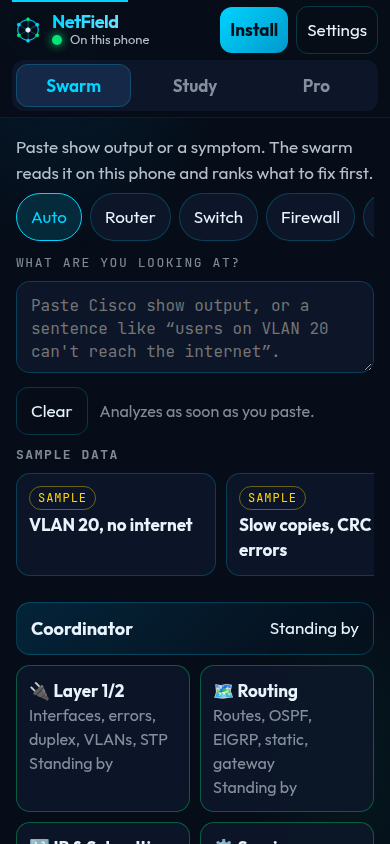
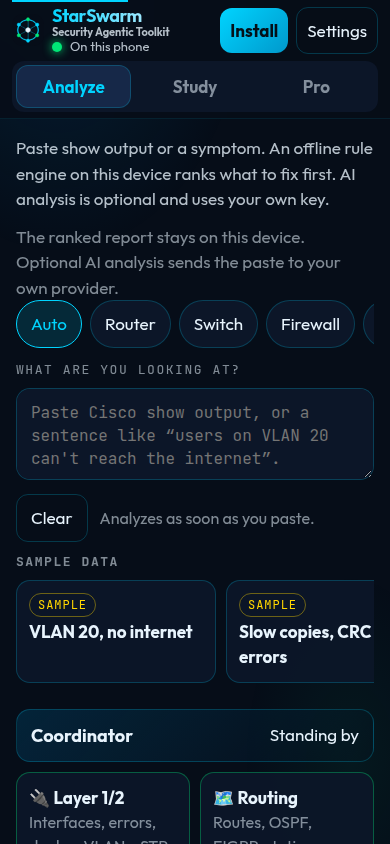
Rename the app to StarSwarm Security Agentic Toolkit.
The free check stays an on-device rule engine. The manifest id and the saved-key storage name stay so an existing install updates in place.

diff --git a/tests/run.js b/tests/run.js
@@ -75,7 +75,7 @@ for (const sample of SAMPLES) {
   const again = runSwarm(sample.text, { deviceType: sample.deviceType });
   assert(JSON.stringify(result) === JSON.stringify(again), `${sample.id} is deterministic`);
   evidenceStaysInsideInput(result, sample.text);
-  assert(result.summary.script.startsWith('! NetField Pocket Swarm'), `${sample.id} script header`);
+  assert(result.summary.script.startsWith('! StarSwarm Security Agentic Toolkit'), `${sample.id} script header`);
   assert(result.summary.confidence >= 80, `${sample.id} confidence ${result.summary.confidence} (${ids(result)})`);
   assert(result.summary.confidenceLabel === 'High', `${sample.id} label`);
 }
@@ -344,7 +344,10 @@ for (const font of ['fonts/outfit-latin.woff2', 'fonts/jetbrains-mono-latin.woff
   assert(bytes.slice(0, 4).toString() === 'wOF2', `${font} is woff2`);
 }
 
-assert(manifest.id === './', 'manifest has an id');
+assert(manifest.name === 'StarSwarm Security Agentic Toolkit', 'manifest name');
+assert(manifest.short_name === 'StarSwarm', 'manifest short name');
+assert(manifest.short_name.length <= 12, 'short name fits a home screen label');
+assert(manifest.id === './', 'manifest id stays so an existing install updates in place');
 assert(manifest.categories.includes('utilities') && manifest.categories.includes('productivity'), 'manifest categories');
 const narrowShot = manifest.screenshots.find((shot) => shot.form_factor === 'narrow');
 const wideShot = manifest.screenshots.find((shot) => shot.form_factor === 'wide');
@@ -354,11 +357,28 @@ for (const shot of [narrowShot, wideShot]) {
   assert(bytes.readUInt32BE(16) + 'x' + bytes.readUInt32BE(20) === shot.sizes, `${shot.src} matches ${shot.sizes}`);
 }
 
-assert(worker.includes("const CACHE = 'netfield-pocket-swarm-v3'"), 'service worker cache was bumped');
+assert(worker.includes("const CACHE = 'starswarm-toolkit-v3'"), 'service worker cache was bumped');
 const og = fs.readFileSync(new URL('../screenshots/og.png', import.meta.url));
 assert(og.readUInt32BE(16) === 1200 && og.readUInt32BE(20) === 630, 'share image is 1200x630');
 assert(worker.includes('fonts/outfit-latin.woff2') && worker.includes('fonts/jetbrains-mono-latin.woff2'), 'service worker precaches the fonts');
-assert(!worker.includes('netfield-pocket-swarm-v1'), 'old cache name is gone');
+assert(!worker.includes('netfield-pocket-swarm'), 'old cache name is gone');
+assert(deepJs.includes("const STORAGE_KEY = 'netfield.byok.v1'"), 'saved keys keep the existing storage key');
+const readme = fs.readFileSync(new URL('../README.md', import.meta.url), 'utf8');
+assert(readme.includes('StarSwarm Security Agentic Toolkit'), 'readme uses the new name');
+assert(readme.includes('https://links.starswarm.workers.dev/'), 'readme links the brand page');
+assert(readme.includes('offline rule engine'), 'readme keeps the free tier honest');
+assert(!/autonomous agents run|swarm of specialist bots/i.test(html + readme + manifest.description), 'free tier is not described as autonomous agents');
+const userFacing = ['index.html', 'manifest.json', 'README.md', 'sw.js', 'css/app.css', 'js/app.js', 'js/analyzers.js', 'js/deep.js', 'js/samples.js', 'js/study.js'];
+for (const file of userFacing) {
+  const text = fs.readFileSync(new URL(`../${file}`, import.meta.url), 'utf8').replaceAll('Formerly NetField', '');
+  assert(!text.includes('NetField'), `${file} has no NetField name`);
+  assert(!text.includes('Pocket Swarm'), `${file} has no Pocket Swarm name`);
+}
+assert(html.includes('Formerly NetField'), 'the app keeps a formerly note');
+assert(html.includes('<title>StarSwarm Security Agentic Toolkit</title>'), 'page title');
+assert(html.includes('content="StarSwarm"'), 'home screen title is the short name');
+assert(html.includes('property="og:title" content="StarSwarm Security Agentic Toolkit"'), 'open graph title');
+assert(html.includes('name="twitter:title" content="StarSwarm Security Agentic Toolkit"'), 'twitter title');
 
 if (failed) {
   console.error(`\n${passed} passed, ${failed} failed`);

diff --git a/index.html b/index.html
@@ -4,8 +4,8 @@
 <meta charset="UTF-8">
 <meta name="viewport" content="width=device-width, initial-scale=1, viewport-fit=cover">
 <meta name="theme-color" content="#060d18">
-<meta name="description" content="NetField Pocket Swarm is an offline rule engine. It ranks Cisco output and symptoms on your device. AI analysis is optional and uses your own key.">
-<meta property="og:title" content="NetField Pocket Swarm">
+<meta name="description" content="StarSwarm Security Agentic Toolkit is an offline rule engine. It ranks Cisco output and symptoms on your device. AI analysis is optional and uses your own key.">
+<meta property="og:title" content="StarSwarm Security Agentic Toolkit">
 <meta property="og:description" content="An offline rule engine for Cisco output and network symptoms. It runs on your device. AI analysis is optional and uses your own key.">
 <meta property="og:type" content="website">
 <meta property="og:url" content="https://porschephotoshootz-afk.github.io/NETFIELD-/">
@@ -13,15 +13,15 @@
 <meta property="og:image:width" content="1200">
 <meta property="og:image:height" content="630">
 <meta name="twitter:card" content="summary_large_image">
-<meta name="twitter:title" content="NetField Pocket Swarm">
+<meta name="twitter:title" content="StarSwarm Security Agentic Toolkit">
 <meta name="twitter:description" content="An offline rule engine for Cisco output and network symptoms. It runs on your device. AI analysis is optional and uses your own key.">
 <meta name="twitter:image" content="https://porschephotoshootz-afk.github.io/NETFIELD-/screenshots/og.png">
 <meta name="referrer" content="no-referrer">
 <meta name="apple-mobile-web-app-capable" content="yes">
 <meta name="mobile-web-app-capable" content="yes">
 <meta name="apple-mobile-web-app-status-bar-style" content="black-translucent">
-<meta name="apple-mobile-web-app-title" content="NetField">
-<title>NetField Pocket Swarm</title>
+<meta name="apple-mobile-web-app-title" content="StarSwarm">
+<title>StarSwarm Security Agentic Toolkit</title>
 <link rel="manifest" href="manifest.json">
 <link rel="icon" href="icons/favicon-32.png" type="image/png">
 <link rel="apple-touch-icon" href="icons/apple-touch-icon.png">
@@ -37,7 +37,7 @@
       <div class="brand">
         <img src="icons/icon-192.png" width="40" height="40" alt="">
         <div>
-          <h1>NetField</h1>
+          <h1><span class="wordmark">StarSwarm</span> <span class="product-name">Security Agentic Toolkit</span></h1>
           <p class="brand-sub"><span class="status-dot" id="status-dot"></span> <span id="status-text">On this phone</span></p>
         </div>
       </div>
@@ -91,7 +91,7 @@
     <section id="view-pro" class="view" hidden>
       <article class="pro-card">
         <h2>Pro</h2>
-        <p>The free check is an offline rule engine. It runs on this device, with no account and no server. AI analysis is optional and uses your own key.</p>
+        <p>Formerly NetField. The free check is an offline rule engine. It runs on this device, with no account and no server. AI analysis is optional and uses your own key.</p>
         <p>Pro would be the hosted add-on, when there is one:</p>
         <ul>
           <li>Saved history of pastes and reports</li>
@@ -132,7 +132,7 @@
 </dialog>
 
 <div id="toast" role="status" aria-hidden="true"></div>
-<noscript><p>NetField needs JavaScript. Analysis still stays on your device.</p></noscript>
+<noscript><p>StarSwarm needs JavaScript. Analysis still stays on your device.</p></noscript>
 <script type="module" src="js/app.js"></script>
 </body>
 </html>

diff --git a/css/app.css b/css/app.css
@@ -105,13 +105,29 @@ h1, h2, h3, p { margin: 0; }
 .header-actions { flex: none; gap: 8px; }
 .brand img { width: 40px; height: 40px; border-radius: 12px; }
 h1 {
+  display: flex;
+  flex-direction: column;
+  align-items: flex-start;
+  max-width: 100%;
   font-size: 22px;
   line-height: 1.1;
   letter-spacing: -0.03em;
   color: var(--acc);
 }
+.wordmark { letter-spacing: -0.03em; }
+.product-name {
+  max-width: 100%;
+  overflow: hidden;
+  font-size: 12px;
+  font-weight: 650;
+  line-height: 1.25;
+  letter-spacing: 0;
+  text-overflow: ellipsis;
+  white-space: nowrap;
+  color: var(--txt2);
+}
 @supports ((-webkit-background-clip: text) or (background-clip: text)) {
-  h1 {
+  .wordmark {
     background: linear-gradient(90deg, var(--acc), #9be7ff);
     -webkit-background-clip: text;
     background-clip: text;
@@ -472,10 +488,11 @@ label.settings { display: block; margin-top: 12px; }
   .brand { gap: 8px; }
   .brand img { width: 32px; height: 32px; border-radius: 10px; }
   h1 { font-size: 18px; }
+  .product-name { font-size: 11px; line-height: 1.2; }
   .brand-sub { margin-top: 0; font-size: 13px; line-height: 1.2; }
   .header-actions button { padding-inline: 10px; }
   .tab { min-height: 40px; padding: 8px; }
-  #swarm-board, #report { scroll-margin-top: 112px; }
+  #swarm-board, #report { scroll-margin-top: 128px; }
 }
 
 @media (min-width: 960px) {

diff --git a/js/analyzers.js b/js/analyzers.js
@@ -1,5 +1,5 @@
 /**
- * On-device specialists for NetField Pocket Swarm.
+ * On-device rule engine for StarSwarm Security Agentic Toolkit.
  * Parsing, rules, and heuristics only. No network and no API key.
  * The same paste always produces the same findings.
  */
@@ -1605,7 +1605,7 @@ function buildNarrative(actions, provisional, ctx) {
 }
 
 function buildScript(actions) {
-  const lines = ['! NetField Pocket Swarm — read it, then paste on the device'];
+  const lines = ['! StarSwarm Security Agentic Toolkit — read it, then paste on the device'];
   const list = actions.filter((item) => item.commands?.length).slice(0, 8);
   if (!list.length) {
     lines.push('! No configuration changes suggested from this paste.');

diff --git a/js/deep.js b/js/deep.js
@@ -4,6 +4,7 @@
  * the user picked, and only after they tap Deep analysis.
  */
 
+// Kept so a key saved before the rebrand still loads. Do not rename without a migration.
 const STORAGE_KEY = 'netfield.byok.v1';
 
 const ENDPOINTS = {

diff --git a/sw.js b/sw.js
@@ -1,4 +1,4 @@
-const CACHE = 'netfield-pocket-swarm-v3';
+const CACHE = 'starswarm-toolkit-v3';
 
 const ASSETS = [
   './',

diff --git a/README.md b/README.md
@@ -1,0 +1,9 @@
+# StarSwarm Security Agentic Toolkit
+
+Formerly NetField.
+
+StarSwarm Agentic Security ([@starswarm](https://x.com/starswarm)) publishes this app. The links page is [https://links.starswarm.workers.dev/](https://links.starswarm.workers.dev/).
+
+The free check is an offline rule engine. It runs in the browser on the device and ranks Cisco output and symptoms. AI analysis is optional and uses your own key. The free check does not run autonomous agents.
+
+This repository stays at its current name, so the published site stays at [https://porschephotoshootz-afk.github.io/NETFIELD-/](https://porschephotoshootz-afk.github.io/NETFIELD-/).
